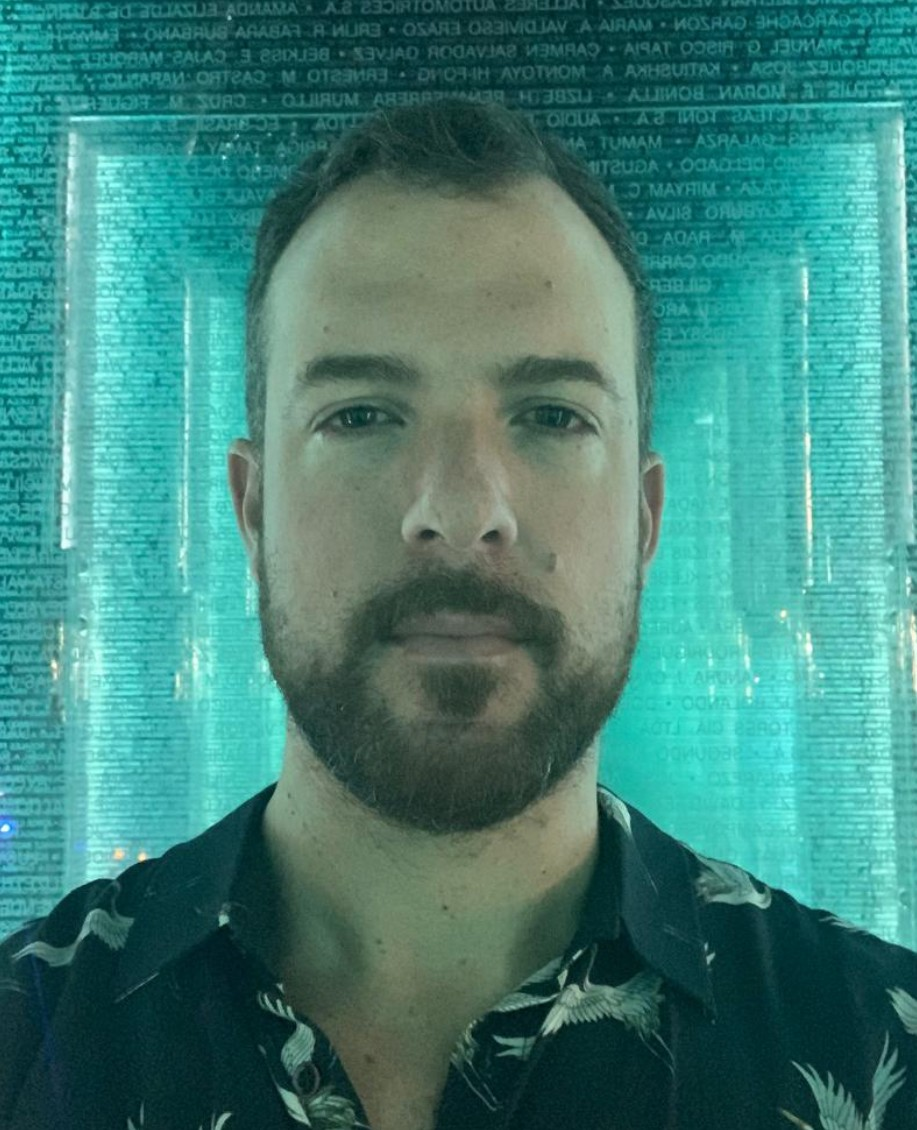
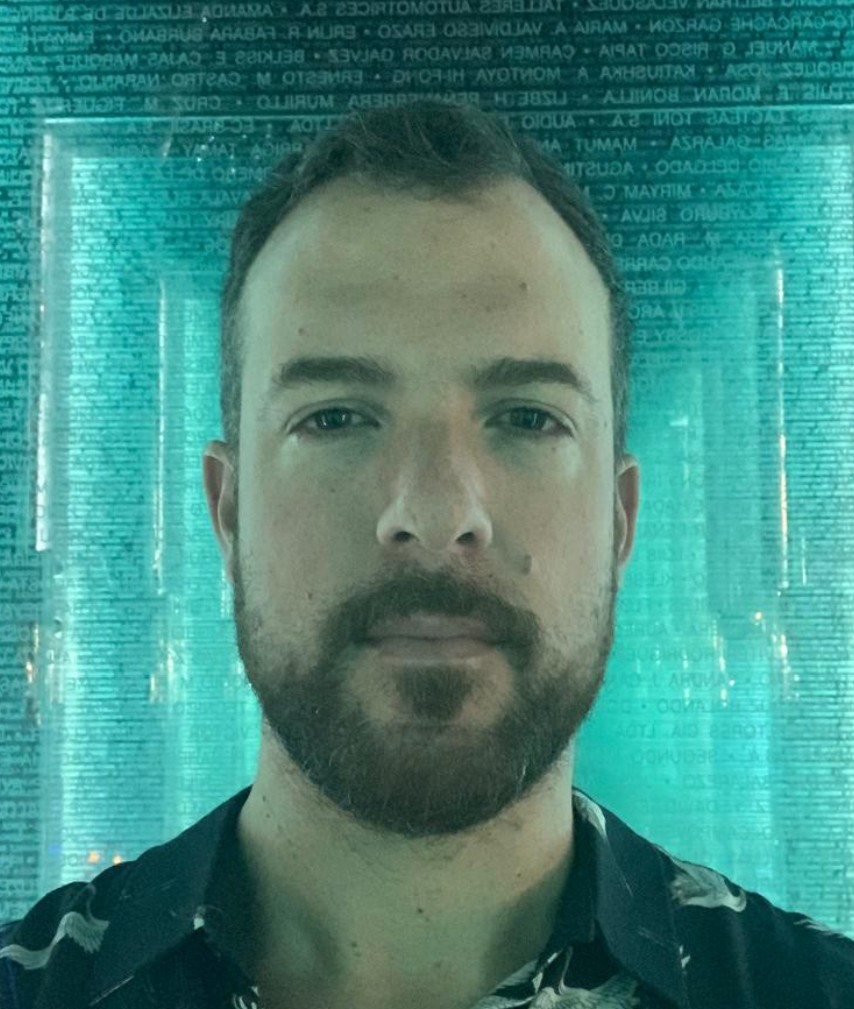
fotos estudiantes

diff --git a/docs/student-websites/index.md b/docs/student-websites/index.md
@@ -15,7 +15,7 @@ students:
         photo: ../assets/images/students/luis_blau.jpg
         website: https://luchoblau-gh.github.io/Luis-Blau/
     Andrea Lorieto:
-        photo: ../assets/images/students/andrea_lorieto.jpg
+        photo: ../assets/images/students/andrea_lorieto.png
         website: https://mathira.github.io/efdi-template/
     Irene Costa:
         photo: ../assets/images/students/irene_costa.jpg
